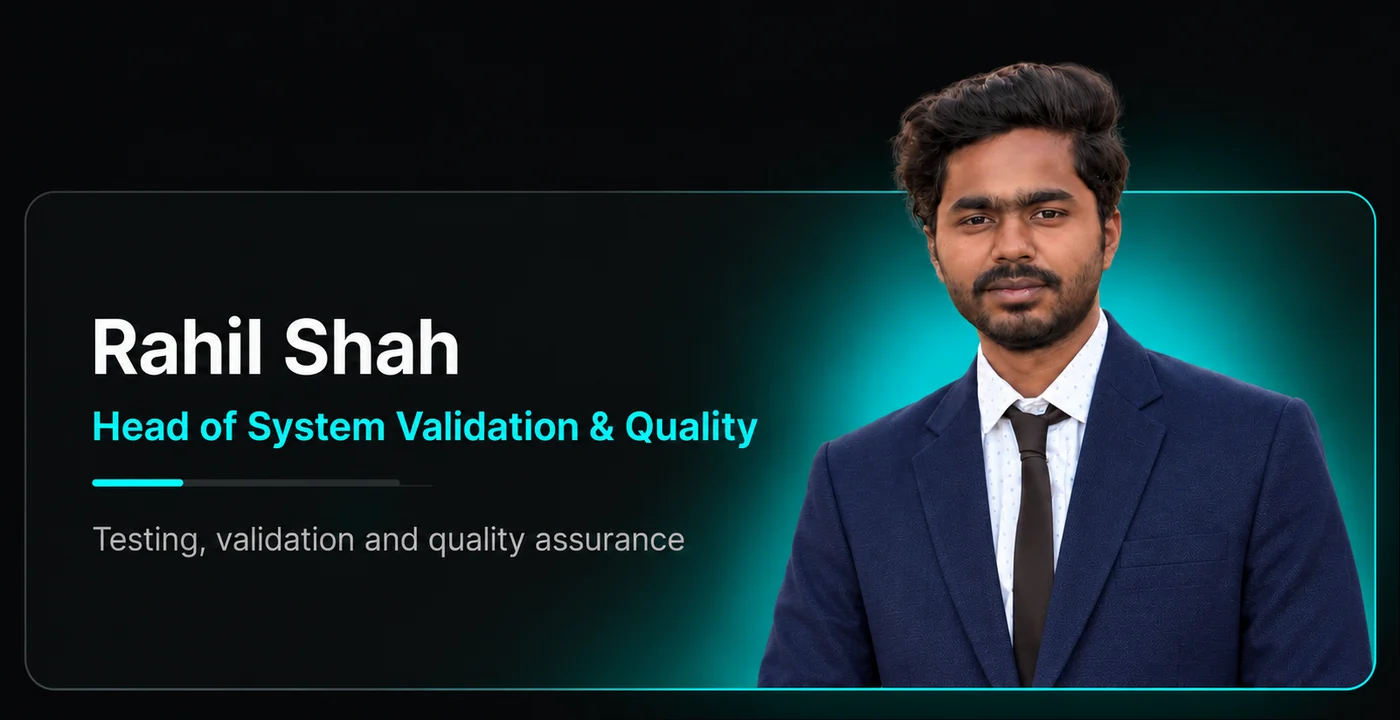
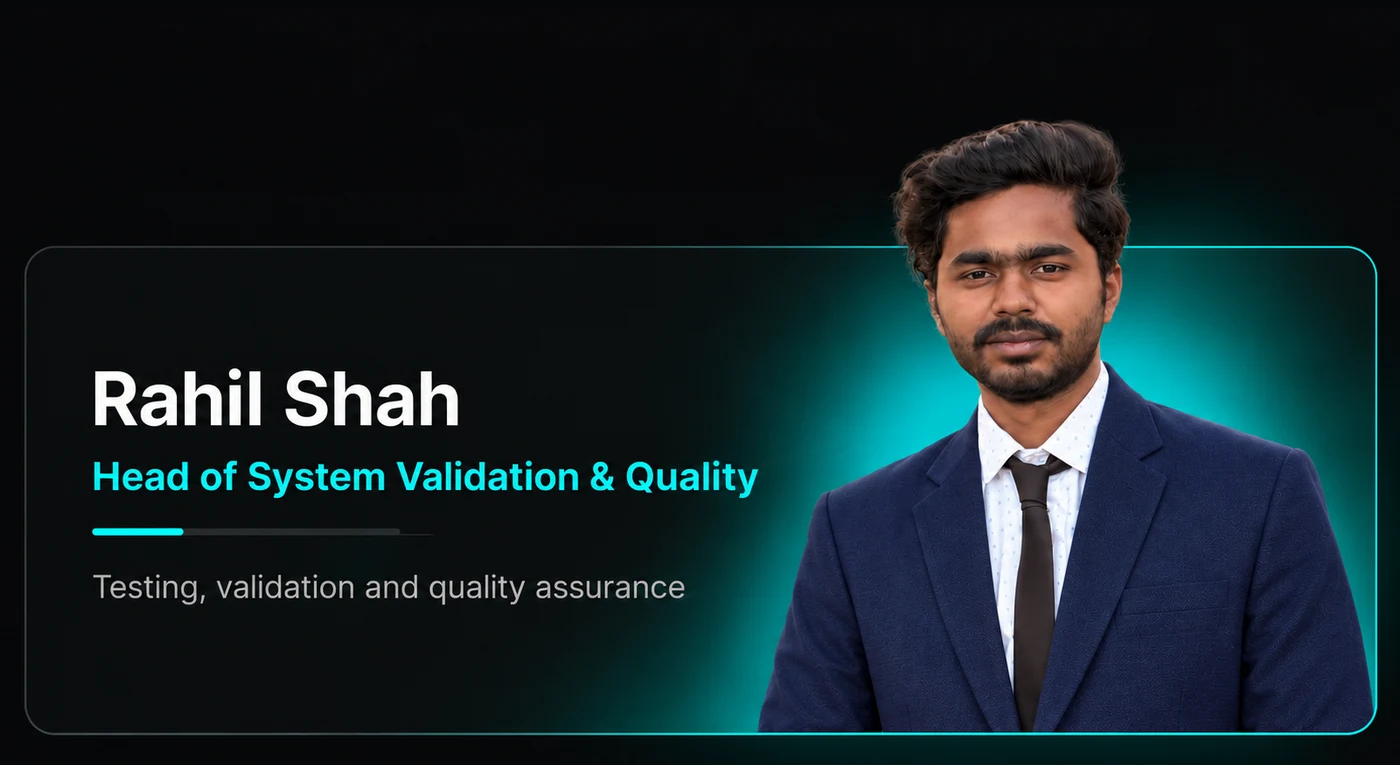
Team cards: stop squashing the pictures, scale each one evenly

diff --git a/dashboard/src/pages/Landing.jsx b/dashboard/src/pages/Landing.jsx
@@ -269,7 +269,7 @@ export default function Landing() {
         <div className="mt-10 grid gap-x-4 gap-y-2 md:grid-cols-2">
           {TEAM.map((m, i) => (
             <Reveal key={m.file} delay={(i % 2) * 120}>
-              <img src={`team/${m.file}.webp`} alt={m.alt} width="1400" height="720" loading="lazy" className="w-full select-none [mix-blend-mode:lighten]" />
+              <img src={`team/${m.file}.webp`} alt={m.alt} width="1400" height="765" loading="lazy" className="w-full select-none [mix-blend-mode:lighten]" />
             </Reveal>
           ))}
         </div>
